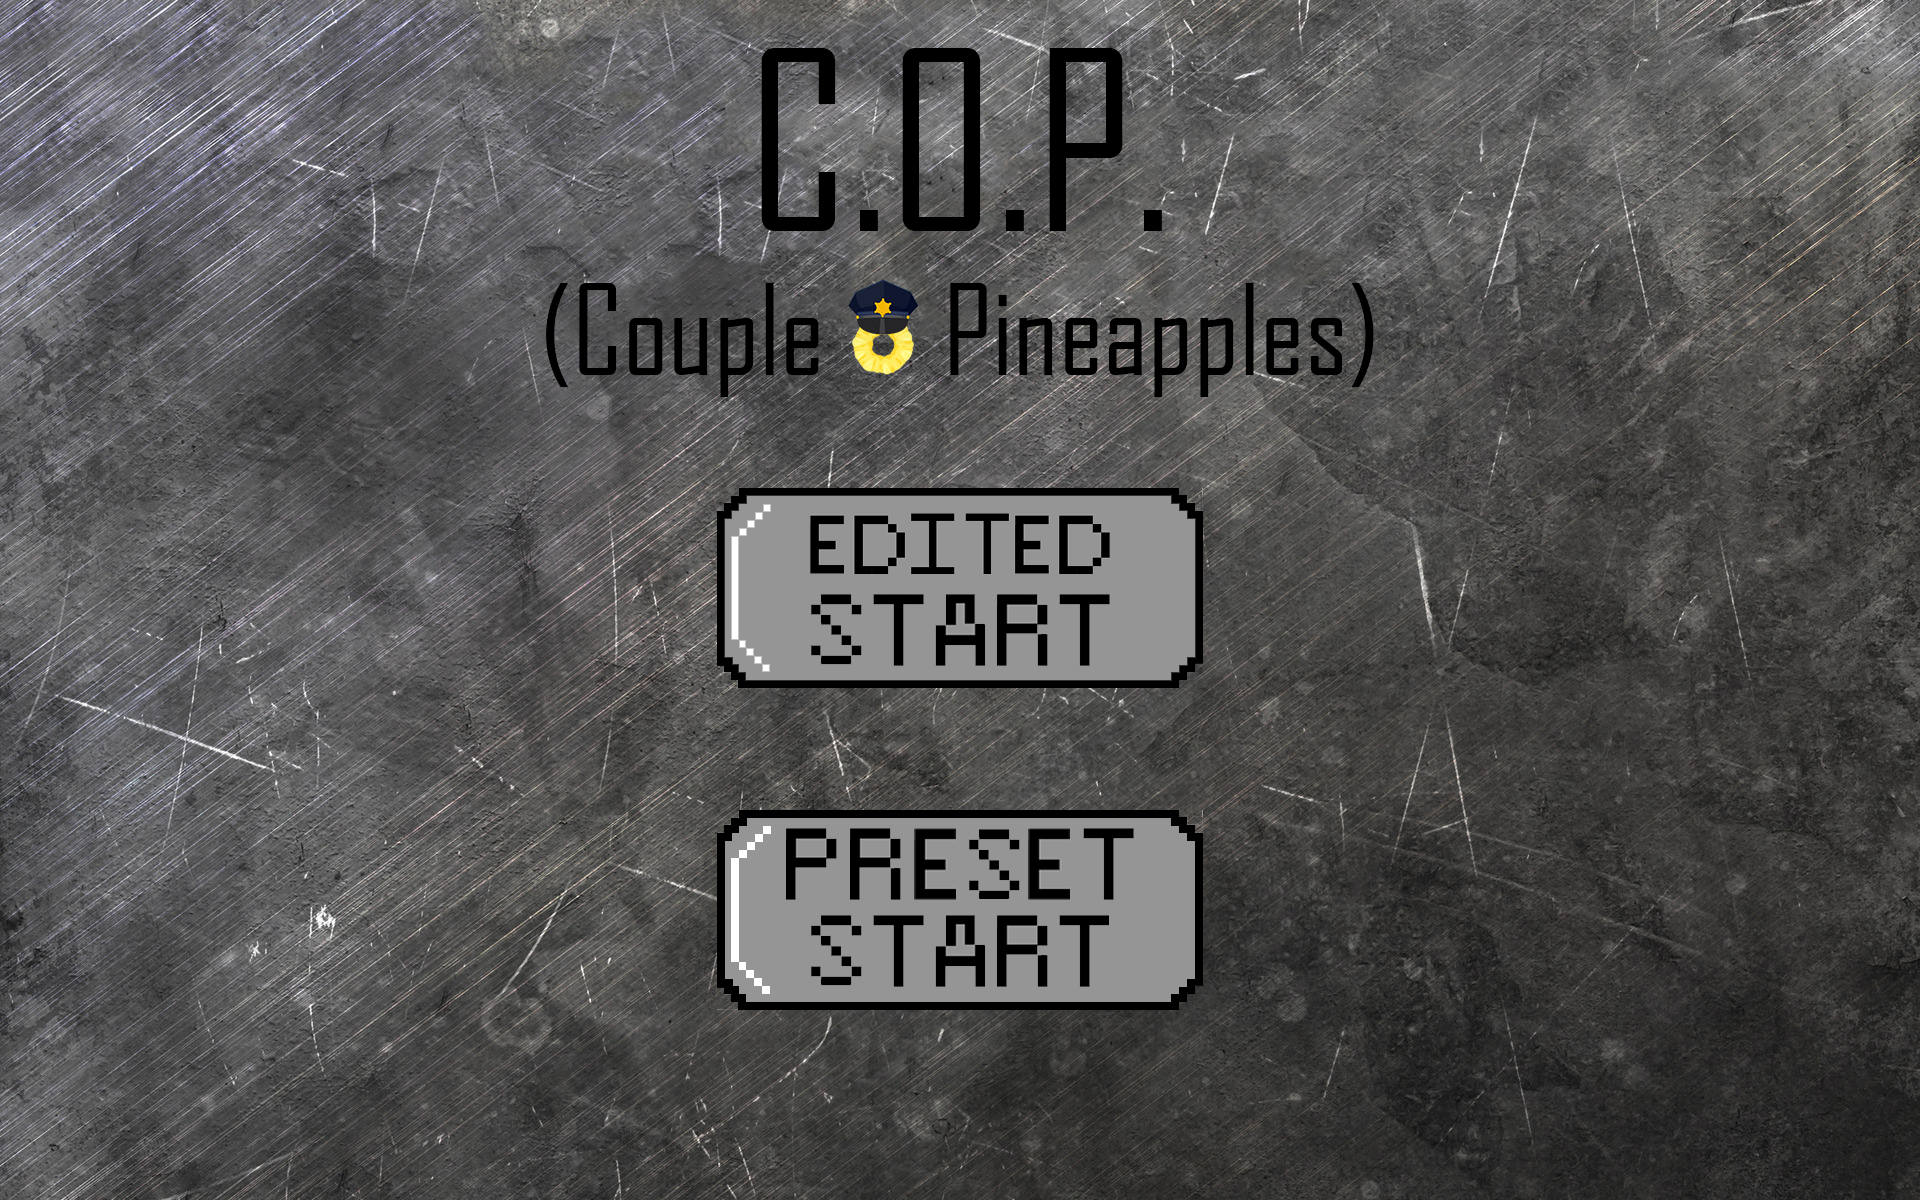
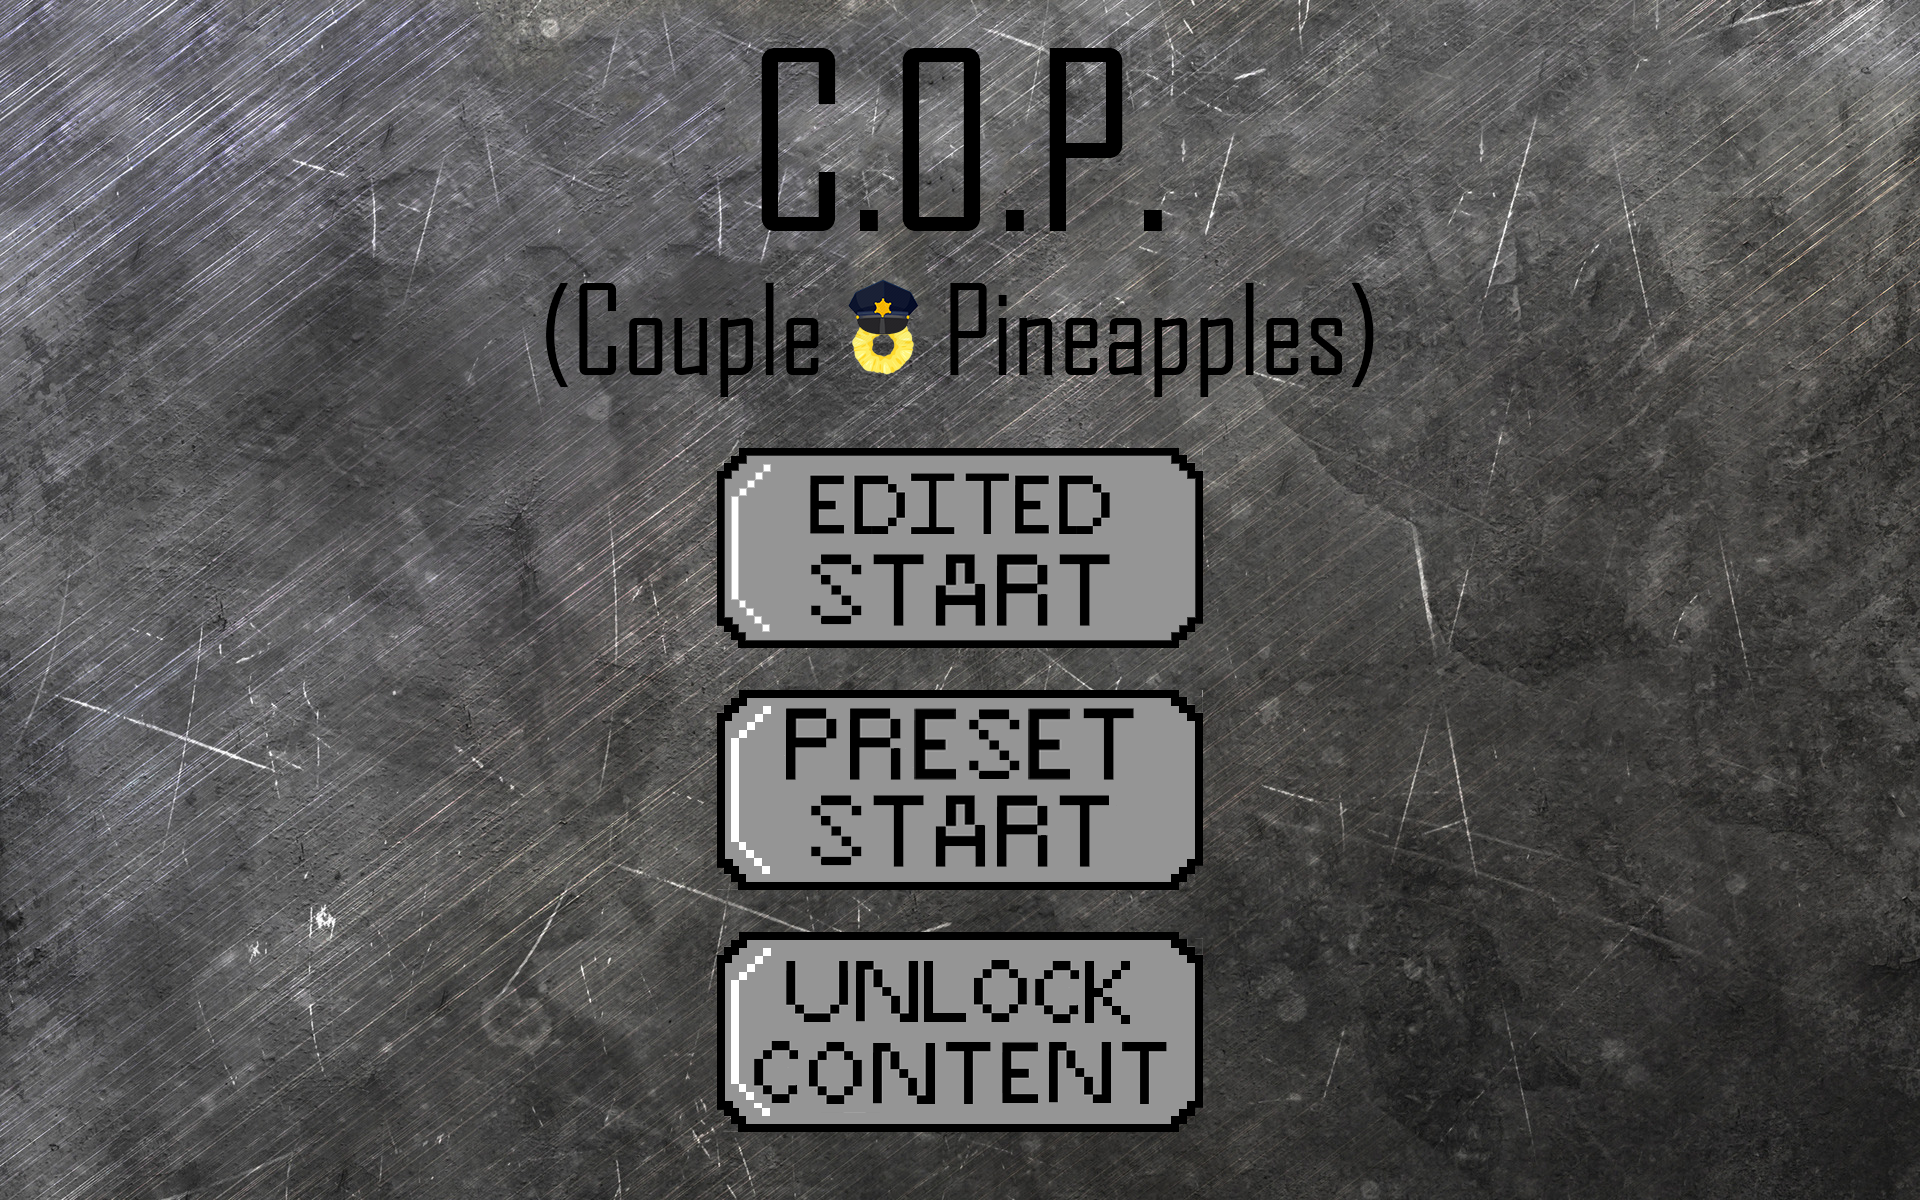
Added stuff for unlockables

Changed region(s): [[0.375, 0.37, 0.625, 0.9558]]

diff --git a/Purpose/Game1.cs b/Purpose/Game1.cs
@@ -98,6 +98,8 @@ namespace Purpose
         private GameObject returnToMenuButton;
         private GameObject returnToMainButton;
         private GameObject unlockablesReturnToPauseButton;
+        private GameObject startUnlockablesButton;
+        private GameObject pauseUnlockablesButton;
 
         private GameObject groundPoundTip;
         private GameObject damageUpTip;
@@ -242,7 +244,6 @@ namespace Purpose
             spriteBatch = new SpriteBatch(GraphicsDevice);
 
             // Load in textures
-            comicSans24 = Content.Load<SpriteFont>("ComicSans24");
             agency30 = Content.Load<SpriteFont>("Agency30");
             agency20 = Content.Load<SpriteFont>("Agency20");
 
@@ -274,18 +275,26 @@ namespace Purpose
                 Content.Load<Texture2D>("Unlockables/UshankaSprites/LeftMeleePineappleUshanka1"), Content.Load<Texture2D>("Unlockables/UshankaSprites/LeftMeleePineappleUshanka2"), Content.Load<Texture2D>("Unlockables/UshankaSprites/LeftMeleePineappleUshanka3"),
                 Content.Load<Texture2D>("Unlockables/FezSprites/RangedPineappleFez"), Content.Load<Texture2D>("Unlockables/FezSprites/RightMeleePineappleFez1"),
                 Content.Load<Texture2D>("Unlockables/FezSprites/RightMeleePineappleFez2"), Content.Load<Texture2D>("Unlockables/FezSprites/RightMeleePineappleFez3"),
-                Content.Load<Texture2D>("Unlockables/FezSprites/LeftMeleePineappleFez1"), Content.Load<Texture2D>("Unlockables/FezSprites/LeftMeleePineappleFez2"), Content.Load<Texture2D>("Unlockables/FezSprites/LeftMeleePineappleFez3"));
+                Content.Load<Texture2D>("Unlockables/FezSprites/LeftMeleePineappleFez1"), Content.Load<Texture2D>("Unlockables/FezSprites/LeftMeleePineappleFez2"), Content.Load<Texture2D>("Unlockables/FezSprites/LeftMeleePineappleFez3"),
+                Content.Load<Texture2D>("Unlockables/CowboySprites/RangedPineappleCowboy"), Content.Load<Texture2D>("Unlockables/CowboySprites/RightMeleePineappleCowboy1"),
+                Content.Load<Texture2D>("Unlockables/CowboySprites/RightMeleePineappleCowboy2"), Content.Load<Texture2D>("Unlockables/CowboySprites/RightMeleePineappleCowboy3"),
+                Content.Load<Texture2D>("Unlockables/CowboySprites/LeftMeleePineappleCowboy1"), Content.Load<Texture2D>("Unlockables/CowboySprites/LeftMeleePineappleCowboy2"), Content.Load<Texture2D>("Unlockables/CowboySprites/LeftMeleePineappleCowboy3"),
+                Content.Load<Texture2D>("Unlockables/BeretSprites/RangedPineappleBeret"), Content.Load<Texture2D>("Unlockables/BeretSprites/RightMeleePineappleBeret1"),
+                Content.Load<Texture2D>("Unlockables/BeretSprites/RightMeleePineappleBeret2"), Content.Load<Texture2D>("Unlockables/BeretSprites/RightMeleePineappleBeret3"),
+                Content.Load<Texture2D>("Unlockables/BeretSprites/LeftMeleePineappleBeret1"), Content.Load<Texture2D>("Unlockables/BeretSprites/LeftMeleePineappleBeret2"), Content.Load<Texture2D>("Unlockables/BeretSprites/LeftMeleePineappleBeret3"));
                 
 
             //Creating the unlockables
             unlockables = new Unlockables(textureManager);
 
-            editedGameButton = new GameObject(textureManager.ButtonFrame, new Rectangle(500, 335, 349, 155));
-            presetGameButton = new GameObject(textureManager.ButtonFrame, new Rectangle(500, 565, 349, 155));
+            editedGameButton = new GameObject(textureManager.ButtonFrame, new Rectangle(500, 308, 349, 155));
+            presetGameButton = new GameObject(textureManager.ButtonFrame, new Rectangle(500, 479, 349, 155));
+            startUnlockablesButton = new GameObject(textureManager.ButtonFrame, new Rectangle(500, 649, 349, 155));
             toGameButton = new GameObject(textureManager.ButtonFrame, new Rectangle(965, 668, 349, 155));
             returnToNewWaveButton = new GameObject(textureManager.ButtonFrame, new Rectangle(10,340,242,109));
-            returnToGameButton = new GameObject(textureManager.ButtonFrame, new Rectangle(500, 280, 349, 160));
-            exitGameButton = new GameObject(textureManager.ButtonFrame, new Rectangle(500, 502, 349, 160));
+            returnToGameButton = new GameObject(textureManager.ButtonFrame, new Rectangle(500, 272, 349, 160));
+            exitGameButton = new GameObject(textureManager.ButtonFrame, new Rectangle(500, 457, 349, 160));
+            pauseUnlockablesButton = new GameObject(textureManager.ButtonFrame, new Rectangle(500, 643, 349, 155));
             goOnButton = new GameObject(textureManager.ButtonFrame, new Rectangle(500, 272, 349, 160));
             upgradesButton = new GameObject(textureManager.ButtonFrame, new Rectangle(500, 512, 349, 160));
             returnToMenuButton = new GameObject(textureManager.ButtonFrame, new Rectangle(500, 343, 349, 160));
@@ -507,6 +516,15 @@ namespace Purpose
                     {
                         spriteBatch.Draw(presetGameButton.Texture, presetGameButton.Position, Color.White);
                     }
+
+                    if (startUnlockablesButton.Intersects(ms.Position))
+                    {
+                        spriteBatch.Draw(startUnlockablesButton.Texture, startUnlockablesButton.Position, Color.Black);
+                    }
+                    else
+                    {
+                        spriteBatch.Draw(startUnlockablesButton.Texture, startUnlockablesButton.Position, Color.White);
+                    }
                     break;
                 #endregion
 
@@ -668,6 +686,15 @@ namespace Purpose
                     {
                         spriteBatch.Draw(exitGameButton.Texture, exitGameButton.Position, Color.White);
                     }
+
+                    if (pauseUnlockablesButton.Intersects(ms.Position))
+                    {
+                        spriteBatch.Draw(pauseUnlockablesButton.Texture, pauseUnlockablesButton.Position, Color.Black);
+                    }
+                    else
+                    {
+                        spriteBatch.Draw(pauseUnlockablesButton.Texture, pauseUnlockablesButton.Position, Color.White);
+                    }
                     break;
                 #endregion
 
@@ -767,6 +794,9 @@ namespace Purpose
                 #region Unlockables Menu
                 case GameState.UnlockablesMenu:
                     spriteBatch.Draw(textureManager.UnlockablesUI, new Rectangle(0,0, GraphicsDevice.Viewport.Width, GraphicsDevice.Viewport.Height), Color.White);
+
+                    spriteBatch.DrawString(agency30, "SPEND 10 UPGRADE POINTS \nTO UNLOCK A NEW HAT!", new Vector2(1000, 45), Color.Black);
+                    spriteBatch.DrawString(agency30, "Unlock Points: " + unlockables.UnlockPoints, new Vector2(1000, 135), Color.Black);
 
                     if (unlockablesReturnToPauseButton.Intersects(ms.Position))
                     {
@@ -910,6 +940,11 @@ namespace Purpose
                     {
                         gameManager.GameState = GameState.Controls;
                         editedGame = false;
+                    }
+
+                    if (startUnlockablesButton.Intersects(ms.Position) && ms.LeftButton == ButtonState.Pressed && previousMs.LeftButton == ButtonState.Released)
+                    {
+                        gameManager.GameState = GameState.UnlockablesMenu;
                     }
 
                     //Reset Game
@@ -1154,6 +1189,10 @@ namespace Purpose
                     {
                         Exit();
                     }
+                    else if (pauseUnlockablesButton.Intersects(ms.Position) && ms.LeftButton == ButtonState.Pressed && previousMs.LeftButton == ButtonState.Released)
+                    {
+                        gameManager.GameState = GameState.UnlockablesMenu;
+                    }
 
                     break;
                 #endregion
@@ -1197,7 +1236,14 @@ namespace Purpose
 
                     if (unlockablesReturnToPauseButton.Intersects(ms.Position) && ms.LeftButton == ButtonState.Pressed && previousMs.LeftButton == ButtonState.Released)
                     {
-                        gameManager.GameState = GameState.Pause;
+                        if (gameManager.PrevGameState == GameState.Menu)
+                        {
+                            gameManager.GameState = GameState.Menu;
+                        }
+                        else if (gameManager.PrevGameState == GameState.Pause)
+                        {
+                            gameManager.GameState = GameState.Pause;
+                        }
                     }
 
                     //Deals with the Fez hat

diff --git a/Purpose/TextureManager.cs b/Purpose/TextureManager.cs
@@ -217,7 +217,9 @@ namespace Purpose
             Texture2D staminabar, Texture2D healthbar, Texture2D groundPoundTip, Texture2D damageUpTip, Texture2D staminaUpTip, Texture2D healthUpTip, Texture2D dashTip, Texture2D dashUpTip, Texture2D unlockablesUI,
             Texture2D sombreroRangedEnemy, Texture2D rightSombreroMelee1, Texture2D rightSombreroMelee2, Texture2D rightSombreroMelee3, Texture2D leftSombreroMelee1, Texture2D leftSombreroMelee2, Texture2D leftSombreroMelee3,
             Texture2D ushankaRangedEnemy, Texture2D rightUshankaMelee1, Texture2D rightUshankaMelee2, Texture2D rightUshankaMelee3, Texture2D leftUshankaMelee1, Texture2D leftUshankaMelee2, Texture2D leftUshankaMelee3,
-            Texture2D fezRangedEnemy, Texture2D rightFezMelee1, Texture2D rightFezMelee2, Texture2D rightFezMelee3, Texture2D leftFezMelee1, Texture2D leftFezMelee2, Texture2D leftFezMelee3)
+            Texture2D fezRangedEnemy, Texture2D rightFezMelee1, Texture2D rightFezMelee2, Texture2D rightFezMelee3, Texture2D leftFezMelee1, Texture2D leftFezMelee2, Texture2D leftFezMelee3,
+            Texture2D cowboyRangedEnemy, Texture2D rightCowboyMelee1, Texture2D rightCowboyMelee2, Texture2D rightCowboyMelee3, Texture2D leftCowboyMelee1, Texture2D leftCowboyMelee2, Texture2D leftCowboyMelee3,
+            Texture2D beretRangedEnemy, Texture2D rightBeretMelee1, Texture2D rightBeretMelee2, Texture2D rightBeretMelee3, Texture2D leftBeretMelee1, Texture2D leftBeretMelee2, Texture2D leftBeretMelee3)
         {
             this.rightStandingSprite = rightStandingSprite;
             this.leftStandingSprite = leftStandingSprite;
@@ -244,6 +246,7 @@ namespace Purpose
             this.leftSombreroMelee1 = leftSombreroMelee1;
             this.leftSombreroMelee2 = leftSombreroMelee2;
             this.leftSombreroMelee3 = leftSombreroMelee3;
+
             this.ushankaRangedEnemy = ushankaRangedEnemy;
             this.rightUshankaMelee1 = rightUshankaMelee1;
             this.rightUshankaMelee2 = rightUshankaMelee2;
@@ -251,6 +254,7 @@ namespace Purpose
             this.leftUshankaMelee1 = leftUshankaMelee1;
             this.leftUshankaMelee2 = leftUshankaMelee2;
             this.leftUshankaMelee3 = leftUshankaMelee3;
+
             this.fezRangedEnemy = fezRangedEnemy;
             this.rightFezMelee1 = rightFezMelee1;
             this.rightFezMelee2 = rightFezMelee2;
@@ -258,6 +262,22 @@ namespace Purpose
             this.leftFezMelee1 = leftFezMelee1;
             this.leftFezMelee2 = leftFezMelee2;
             this.leftFezMelee3 = leftFezMelee3;
+
+            this.cowboyRangedEnemy = cowboyRangedEnemy;
+            this.rightCowboyMelee1 = rightCowboyMelee1;
+            this.rightCowboyMelee2 = rightCowboyMelee2;
+            this.rightCowboyMelee3 = rightCowboyMelee3;
+            this.leftCowboyMelee1 = leftCowboyMelee1;
+            this.leftCowboyMelee2 = leftCowboyMelee2;
+            this.leftCowboyMelee3 = leftCowboyMelee3;
+
+            this.beretRangedEnemy = beretRangedEnemy;
+            this.rightBeretMelee1 = rightBeretMelee1;
+            this.rightBeretMelee2 = rightBeretMelee2;
+            this.rightBeretMelee3 = rightBeretMelee3;
+            this.leftBeretMelee1 = leftBeretMelee1;
+            this.leftBeretMelee2 = leftBeretMelee2;
+            this.leftBeretMelee3 = leftBeretMelee3;
 
             rightJumpSprite = rightStandingSprite;
             leftJumpSprite = leftStandingSprite;

diff --git a/Purpose/GameManager.cs b/Purpose/GameManager.cs
@@ -28,6 +28,7 @@ namespace Purpose
         private PlatformVersion platformVersion;
         private EnemyManager enemyManager;
         private SoundManager soundManager;
+        private GameState prevGameState;
 
         //private List<Wave> waves;
         private List<Wave> editedWaves;
@@ -58,7 +59,11 @@ namespace Purpose
         public GameState GameState
         {
             get { return gameState; }
-            set { gameState = value; }
+            set
+            {
+                prevGameState = gameState;
+                gameState = value;
+            }
         }
 
         public Texture2D Background
@@ -92,7 +97,6 @@ namespace Purpose
         }
 
         public WaveNumber WaveNumber { get { return waveNumber; } set { waveNumber = value; } }
-        #endregion
 
         public PlatformVersion PlatformVersion
         {
@@ -104,6 +108,12 @@ namespace Purpose
         {
             get { return enemyManager; }
         }
+
+        public GameState PrevGameState
+        {
+            get { return prevGameState; }
+        }
+        #endregion
 
         //constructor
         public GameManager(Player player, List<Platform> platforms, List<Platform> leftWalls, List<Platform> rightWalls, GraphicsDevice graphicsDevice,
@@ -126,6 +136,7 @@ namespace Purpose
 
             //a boolean representing if the player is on the platform
             jumping = false;
+            prevGameState = GameState.Menu;
         }
 
         //methods
